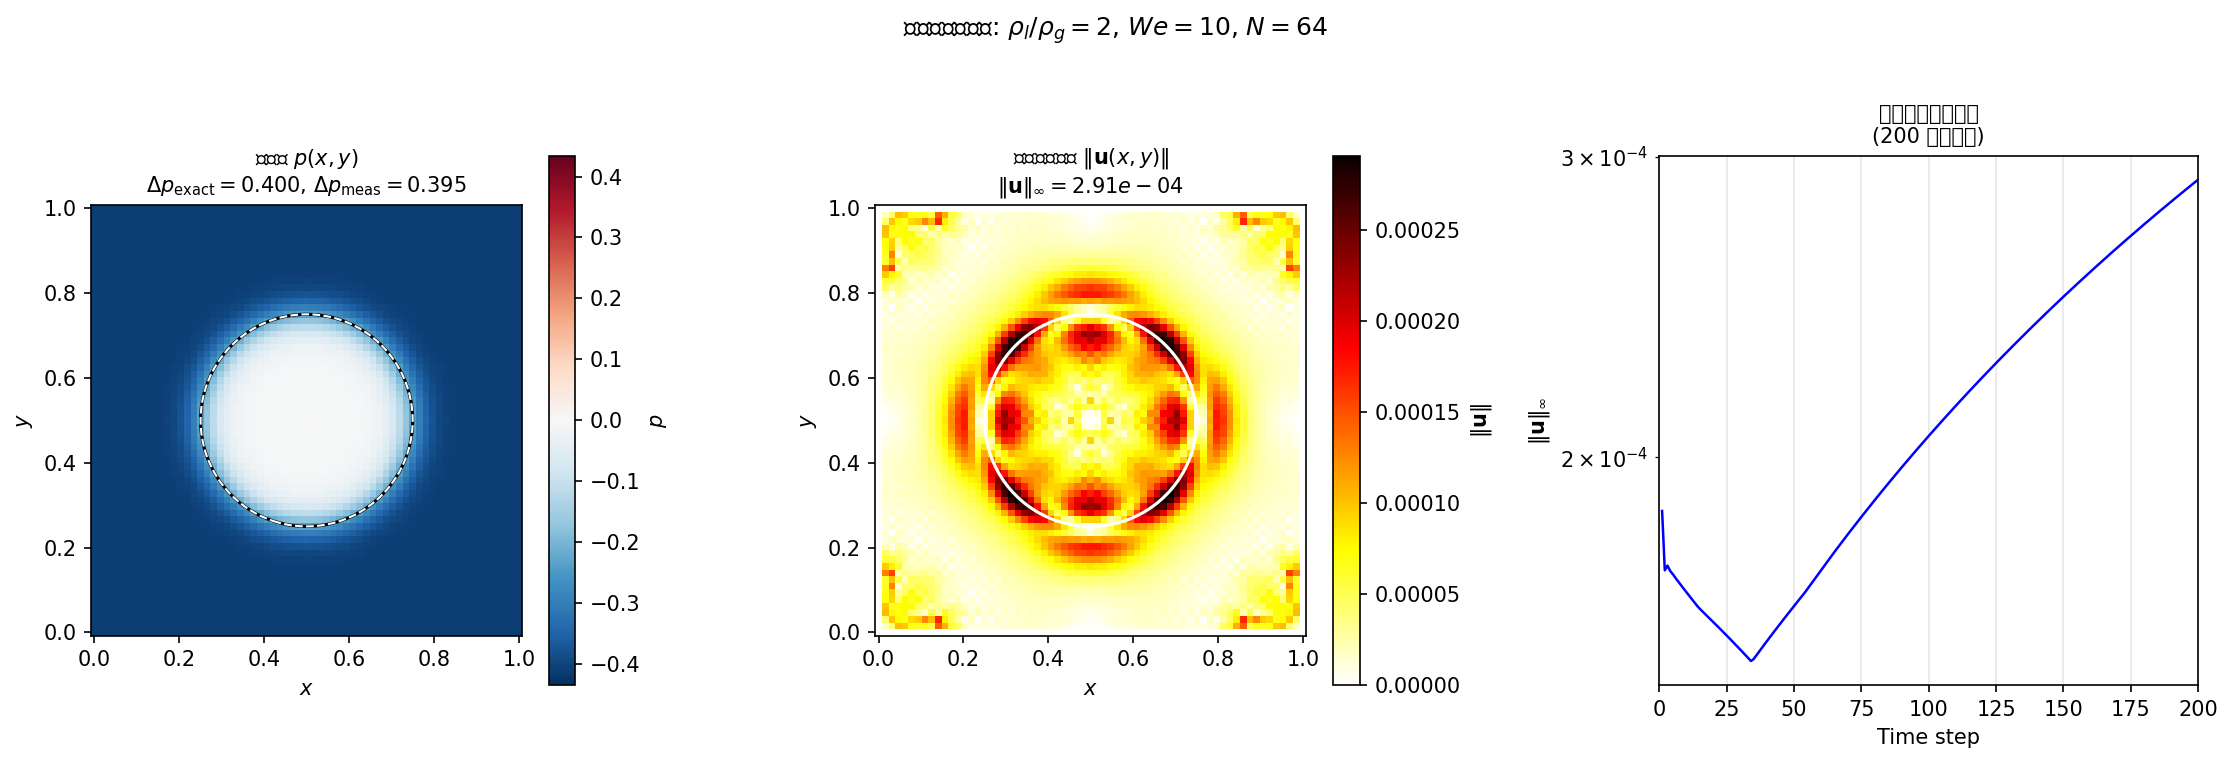
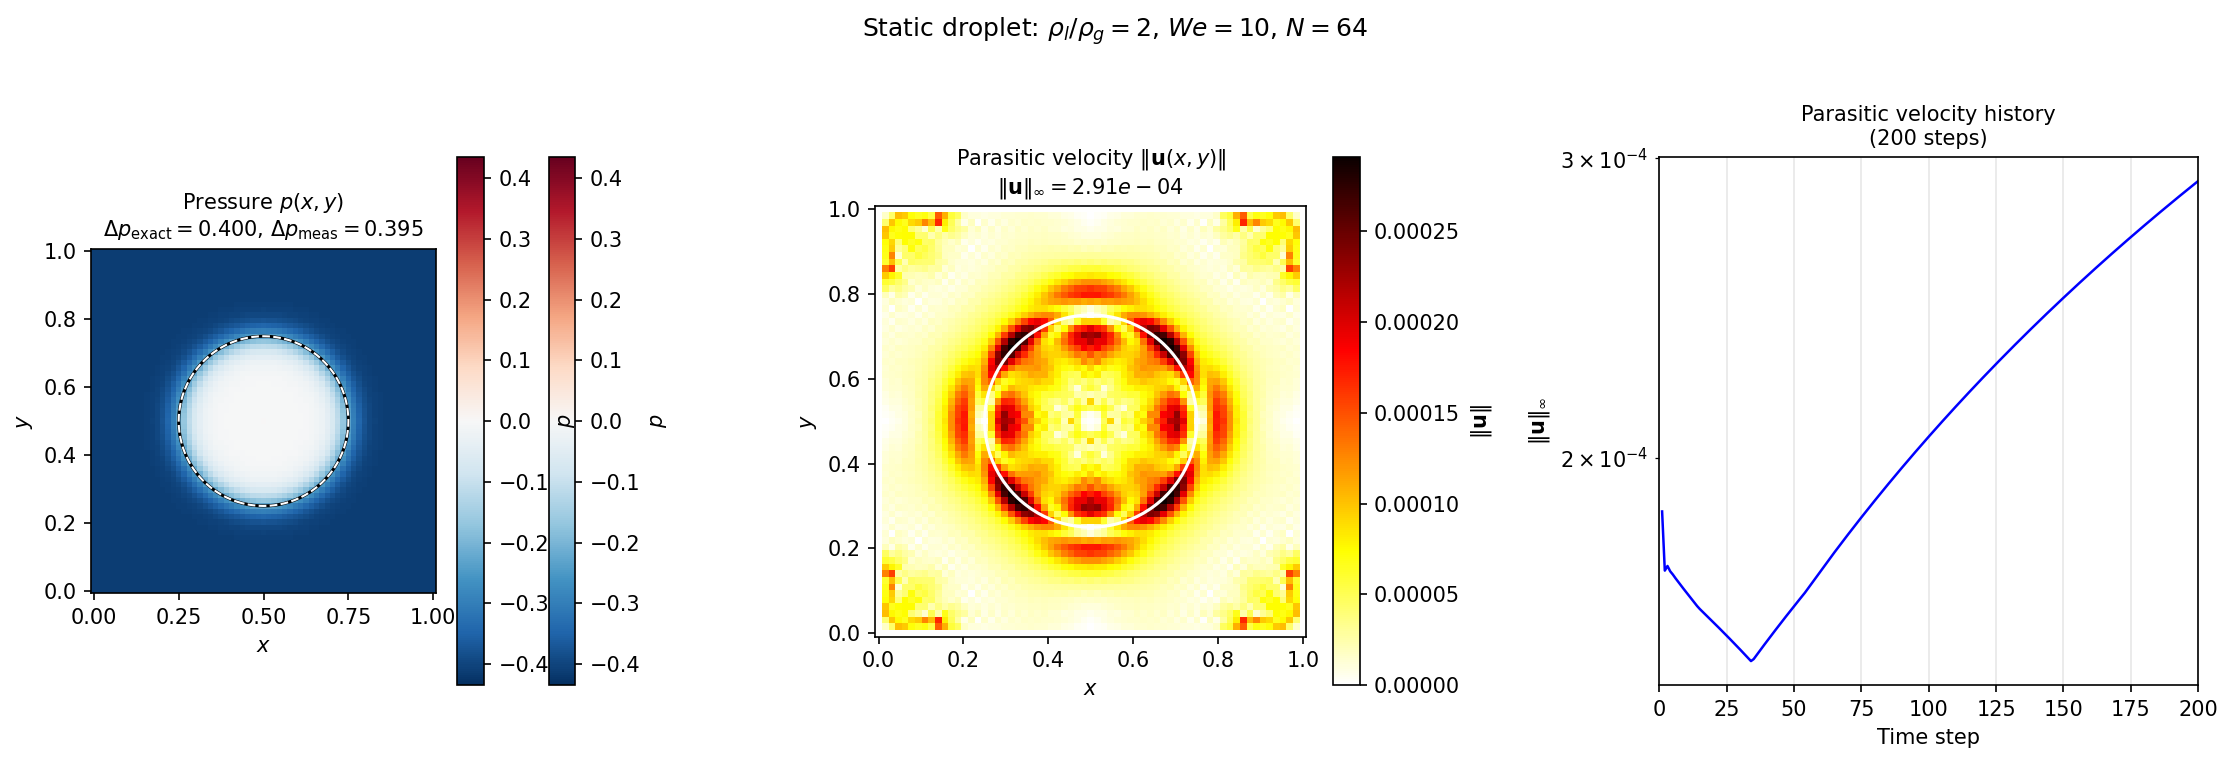
fix(viz): §12 グラフの文字化け修正・パネルサイズ均一化
- 全4スクリプトの日本語ラベルを英語に置換（matplotlibフォント非対応のため）
- 行単位共有カラーバー (ax=axes[row,:].tolist()) でパネルサイズを均一化
  - viz_ch12_density_fields: 2×4パネル, 右列カラーバーによるサイズ縮小を解消
  - viz_ch12_rt_fields: 3×4パネル, 各行に単一カラーバーを配置
  - viz_ch12_hfe_fields: 列単位共有カラーバーに変更
- 図を再生成・paper/figures/ を更新

diff --git a/experiment/ch12/viz_ch12_hfe_fields.py b/experiment/ch12/viz_ch12_hfe_fields.py
@@ -127,41 +127,46 @@ def make_figure(phi, p_off, vm_off, hist_off, p_on, vm_on, hist_on):
     x1d = np.linspace(0, 1, Ng)
     y1d = np.linspace(0, 1, Ng)
 
-    def _plot_field(ax, data, phi, cmap, label, title, vmax=None):
+    def _plot_field(ax, data, phi, cmap, title, vmax=None):
         if vmax is None:
             vmax = max(abs(data.min()), abs(data.max()), 1e-12)
         im = ax.pcolormesh(x1d, y1d, data.T, cmap=cmap,
                            vmin=-vmax if cmap == 'RdBu_r' else 0,
                            vmax=vmax, shading='auto')
         ax.contour(x1d, y1d, phi.T, levels=[0.0], colors='k', linewidths=1.5)
-        plt.colorbar(im, ax=ax, label=label, shrink=0.85)
         ax.set_title(title, fontsize=10)
         ax.set_xlabel('$x$'); ax.set_ylabel('$y$')
         ax.set_aspect('equal')
+        return im
+
+    # Shared scales across both rows for fair comparison
+    vmax_p = max(abs(p_off.min()), abs(p_off.max()), abs(p_on.min()), abs(p_on.max()))
+    vmax_u = max(vm_off.max(), vm_on.max(), 1e-10)
 
     # Row 0: HFE OFF
-    vmax_p = max(abs(p_off.min()), abs(p_off.max()), abs(p_on.min()), abs(p_on.max()))
-    _plot_field(axes[0, 0], p_off, phi, 'RdBu_r', '$p$',
-                f'HFE OFF — 圧力場\n$\\|\\mathbf{{u}}\\|_\\infty={vm_off.max():.2e}$',
-                vmax=vmax_p)
-    vmax_u = max(vm_off.max(), 1e-10)
-    _plot_field(axes[0, 1], vm_off, phi, 'hot_r', r'$\|\mathbf{u}\|$',
-                f'HFE OFF — 寄生流れ速度\npeak={vm_off.max():.2e}',
-                vmax=vmax_u)
+    im_p0 = _plot_field(axes[0, 0], p_off, phi, 'RdBu_r',
+                        f'HFE OFF — Pressure\n$\\|\\mathbf{{u}}\\|_\\infty={vm_off.max():.2e}$',
+                        vmax=vmax_p)
+    im_u0 = _plot_field(axes[0, 1], vm_off, phi, 'hot_r',
+                        f'HFE OFF — Parasitic velocity\npeak={vm_off.max():.2e}',
+                        vmax=vmax_u)
 
     # Row 1: HFE ON
-    _plot_field(axes[1, 0], p_on, phi, 'RdBu_r', '$p$',
-                f'HFE ON — 圧力場\n$\\|\\mathbf{{u}}\\|_\\infty={vm_on.max():.2e}$',
-                vmax=vmax_p)
-    vmax_u_on = max(vm_on.max(), 1e-10)
-    _plot_field(axes[1, 1], vm_on, phi, 'hot_r', r'$\|\mathbf{u}\|$',
-                f'HFE ON — 寄生流れ速度\npeak={vm_on.max():.2e}',
-                vmax=vmax_u_on)
+    im_p1 = _plot_field(axes[1, 0], p_on, phi, 'RdBu_r',
+                        f'HFE ON — Pressure\n$\\|\\mathbf{{u}}\\|_\\infty={vm_on.max():.2e}$',
+                        vmax=vmax_p)
+    im_u1 = _plot_field(axes[1, 1], vm_on, phi, 'hot_r',
+                        f'HFE ON — Parasitic velocity\npeak={vm_on.max():.2e}',
+                        vmax=vmax_u)
+
+    # Shared colorbars — one per column, placed to the right of all rows
+    fig.colorbar(im_p0, ax=axes[:, 0].tolist(), label='$p$', shrink=0.6)
+    fig.colorbar(im_u0, ax=axes[:, 1].tolist(), label=r'$\|\mathbf{u}\|$', shrink=0.6)
 
     ratio = vm_on.max() / max(vm_off.max(), 1e-30)
     plt.suptitle(
-        f'HFE ON vs OFF: $\\rho_l/\\rho_g=2$, $N=64$, {N_STEPS} ステップ\n'
-        f'寄生流れ増大比: {ratio:.1e}×',
+        f'HFE ON vs OFF: $\\rho_l/\\rho_g=2$, $N=64$, {N_STEPS} steps\n'
+        f'Parasitic velocity ratio ON/OFF: {ratio:.1e}x',
         fontsize=12, y=1.01
     )
     plt.tight_layout()

diff --git a/experiment/ch12/viz_ch12_rt_fields.py b/experiment/ch12/viz_ch12_rt_fields.py
@@ -199,48 +199,45 @@ def make_figure(snapshots):
 
         # Density
         ax = axes[0, i]
-        im = ax.pcolormesh(x1d, y1d, rho_s.T, cmap='Blues',
-                           vmin=vmin_rho, vmax=vmax_rho, shading='auto')
+        im_rho = ax.pcolormesh(x1d, y1d, rho_s.T, cmap='Blues',
+                               vmin=vmin_rho, vmax=vmax_rho, shading='auto')
         ax.contour(x1d, y1d, psi_s.T, levels=[0.5], colors='r', linewidths=1.5)
-        if i == 3:
-            plt.colorbar(im, ax=ax, label=r'$\rho$', shrink=0.8)
         ax.set_title(f'$t={t_snap:.1f}$', fontsize=11)
         ax.set_xlabel('$x$')
-        ax.set_ylabel('$y$' if i == 0 else '')
         ax.set_xlim(0, 1); ax.set_ylim(0.5, 3.5)
         ax.set_aspect('equal')
 
         # Pressure
         ax = axes[1, i]
-        im2 = ax.pcolormesh(x1d, y1d, p_s.T, cmap='RdBu_r',
-                            vmin=-vmax_p, vmax=vmax_p, shading='auto')
+        im_p = ax.pcolormesh(x1d, y1d, p_s.T, cmap='RdBu_r',
+                             vmin=-vmax_p, vmax=vmax_p, shading='auto')
         ax.contour(x1d, y1d, psi_s.T, levels=[0.5], colors='k', linewidths=1.2)
-        if i == 3:
-            plt.colorbar(im2, ax=ax, label='$p$', shrink=0.8)
         ax.set_xlabel('$x$')
-        ax.set_ylabel('$p(x,y)$' if i == 0 else '')
         ax.set_xlim(0, 1); ax.set_ylim(0.5, 3.5)
         ax.set_aspect('equal')
 
         # Velocity magnitude
         ax = axes[2, i]
-        im3 = ax.pcolormesh(x1d, y1d, vm_s.T, cmap='hot_r',
-                            vmin=0, vmax=vmax_vm, shading='auto')
+        im_vm = ax.pcolormesh(x1d, y1d, vm_s.T, cmap='hot_r',
+                              vmin=0, vmax=vmax_vm, shading='auto')
         ax.contour(x1d, y1d, psi_s.T, levels=[0.5], colors='w', linewidths=1.2)
-        if i == 3:
-            plt.colorbar(im3, ax=ax, label=r'$\|\mathbf{u}\|$', shrink=0.8)
         ax.set_xlabel('$x$')
-        ax.set_ylabel(r'$\|\mathbf{u}(x,y)\|$' if i == 0 else '')
         ax.set_xlim(0, 1); ax.set_ylim(0.5, 3.5)
         ax.set_aspect('equal')
 
-    axes[0, 0].set_ylabel('密度場 $\\rho(x,y)$', fontsize=11)
-    axes[1, 0].set_ylabel('圧力場 $p(x,y)$', fontsize=11)
-    axes[2, 0].set_ylabel(r'速度 $\|\mathbf{u}(x,y)\|$', fontsize=11)
+    # Row labels
+    axes[0, 0].set_ylabel(r'Density $\rho(x,y)$', fontsize=11)
+    axes[1, 0].set_ylabel(r'Pressure $p(x,y)$', fontsize=11)
+    axes[2, 0].set_ylabel(r'Velocity $\|\mathbf{u}(x,y)\|$', fontsize=11)
+
+    # Shared colorbars — one per row → equal panel sizes
+    fig.colorbar(im_rho, ax=axes[0, :].tolist(), label=r'$\rho$', shrink=0.7)
+    fig.colorbar(im_p,   ax=axes[1, :].tolist(), label='$p$',      shrink=0.7)
+    fig.colorbar(im_vm,  ax=axes[2, :].tolist(), label=r'$\|\mathbf{u}\|$', shrink=0.7)
 
     plt.suptitle(
-        r'RT不安定性: $64\times256$, $At=0.5$, $\sigma=0$'
-        '\n赤線 = 界面 ($\\psi=0.5$)',
+        r'RT instability: $64\times256$, $At=0.5$, $\sigma=0$'
+        '\n(red line = interface $\\psi=0.5$)',
         fontsize=13
     )
     plt.tight_layout()

diff --git a/experiment/ch12/viz_ch12_density_fields.py b/experiment/ch12/viz_ch12_density_fields.py
@@ -121,6 +121,10 @@ def make_figure(results):
     all_p = np.concatenate([r['p'].ravel() for r in results])
     vmax_p = float(np.percentile(np.abs(all_p), 99)) * 1.05
 
+    vmax_u = float(max(r['vel_mag'].max() for r in results))
+    im_p_last = None
+    im_u_last = None
+
     for i, r in enumerate(results):
         rho_l = r['rho_l']
         phi = r['phi']
@@ -129,36 +133,36 @@ def make_figure(results):
 
         # Top row: pressure fields
         ax = axes[0, i]
-        im = ax.pcolormesh(x1d, y1d, p.T, cmap='RdBu_r',
-                           vmin=-vmax_p, vmax=vmax_p, shading='auto')
+        im_p = ax.pcolormesh(x1d, y1d, p.T, cmap='RdBu_r',
+                             vmin=-vmax_p, vmax=vmax_p, shading='auto')
         ax.contour(x1d, y1d, phi.T, levels=[0.0], colors='k', linewidths=1.5)
-        if i == len(results) - 1:
-            plt.colorbar(im, ax=ax, label='$p$', shrink=0.9)
         ax.set_title(fr'$\rho_l/\rho_g={int(rho_l)}$' + '\n'
-                     fr'$\Delta p_{{meas}}={r["dp_meas"]:.3f}$', fontsize=10)
-        ax.set_xlabel('$x$'); ax.set_ylabel('$y$' if i == 0 else '')
+                     fr'$\Delta p_\mathrm{{meas}}={r["dp_meas"]:.3f}$', fontsize=10)
+        ax.set_xlabel('$x$')
         ax.set_aspect('equal')
         if i > 0:
             ax.set_yticklabels([])
+        im_p_last = im_p
 
         # Bottom row: velocity magnitude
         ax = axes[1, i]
-        vmax_u = float(max(r['vel_mag'].max() for r in results))
-        im2 = ax.pcolormesh(x1d, y1d, vm.T, cmap='hot_r',
-                            vmin=0, vmax=vmax_u, shading='auto')
+        im_u = ax.pcolormesh(x1d, y1d, vm.T, cmap='hot_r',
+                             vmin=0, vmax=vmax_u, shading='auto')
         ax.contour(x1d, y1d, phi.T, levels=[0.0], colors='w', linewidths=1.5)
-        if i == len(results) - 1:
-            plt.colorbar(im2, ax=ax, label=r'$\|\mathbf{u}\|$', shrink=0.9)
         ax.set_title(fr'$\|\mathbf{{u}}\|_\infty={vm.max():.2e}$', fontsize=10)
-        ax.set_xlabel('$x$'); ax.set_ylabel(r'$\|\mathbf{u}\|$' if i == 0 else '')
+        ax.set_xlabel('$x$')
         ax.set_aspect('equal')
         if i > 0:
             ax.set_yticklabels([])
+        im_u_last = im_u
 
-    axes[0, 0].set_ylabel('圧力場 $p(x,y)$', fontsize=11)
-    axes[1, 0].set_ylabel(r'寄生流れ $\|\mathbf{u}(x,y)\|$', fontsize=11)
+    # Shared colorbars — one per row, placed right of all columns → equal panel sizes
+    axes[0, 0].set_ylabel('Pressure $p(x,y)$', fontsize=11)
+    axes[1, 0].set_ylabel(r'Parasitic velocity $\|\mathbf{u}(x,y)\|$', fontsize=11)
+    fig.colorbar(im_p_last, ax=axes[0, :].tolist(), label='$p$', shrink=0.8)
+    fig.colorbar(im_u_last, ax=axes[1, :].tolist(), label=r'$\|\mathbf{u}\|$', shrink=0.8)
 
-    plt.suptitle(r'密度比スイープ: $N=64$, $We=10$, 200ステップ — 全ケース安定',
+    plt.suptitle(r'Density ratio sweep: $N=64$, $We=10$, 200 steps — all stable',
                  fontsize=12)
     plt.tight_layout()
 

diff --git a/experiment/ch12/viz_ch12_droplet_fields.py b/experiment/ch12/viz_ch12_droplet_fields.py
@@ -119,21 +119,19 @@ def make_figure(X, Y, phi, psi, p, u, v, vel_mag, u_max_hist):
     ax.contour(x1d, y1d, psi.T, levels=[0.5], colors='w', linewidths=1.0,
                linestyles='--')
     plt.colorbar(im, ax=ax, label='$p$')
-    ax.set_title(r'圧力場 $p(x,y)$' + '\n' + r'($N=64$, step=200)', fontsize=11)
-    ax.set_xlabel('$x$'); ax.set_ylabel('$y$')
-    ax.set_aspect('equal')
-
-    # Exact Δp = σ/(R·We) = 1/(0.25·10) = 0.4
     dp_exact = SIGMA / (R * WE)
     inside = phi > 3.0 / N
     outside = phi < -3.0 / N
     dp_meas = float(np.mean(p[inside]) - np.mean(p[outside]))
     ax.set_title(
-        r'圧力場 $p(x,y)$' + '\n'
+        r'Pressure $p(x,y)$' + '\n'
         fr'$\Delta p_\mathrm{{exact}}={dp_exact:.3f}$,'
         fr' $\Delta p_\mathrm{{meas}}={dp_meas:.3f}$',
         fontsize=10
     )
+    ax.set_xlabel('$x$'); ax.set_ylabel('$y$')
+    ax.set_aspect('equal')
+    plt.colorbar(im, ax=ax, label='$p$')
 
     # ── Panel B: Velocity magnitude (parasitic currents) ──
     ax = axes[1]
@@ -141,11 +139,11 @@ def make_figure(X, Y, phi, psi, p, u, v, vel_mag, u_max_hist):
     im2 = ax.pcolormesh(x1d, y1d, vel_mag.T, cmap='hot_r', vmin=0, vmax=vmax_u,
                         shading='auto')
     ax.contour(x1d, y1d, phi.T, levels=[0.0], colors='w', linewidths=1.5)
-    plt.colorbar(im2, ax=ax, label=r'$\|\mathbf{u}\|$')
-    ax.set_title(r'寄生流れ速度 $\|\mathbf{u}(x,y)\|$' + '\n'
+    ax.set_title(r'Parasitic velocity $\|\mathbf{u}(x,y)\|$' + '\n'
                  fr'$\|\mathbf{{u}}\|_\infty={vmax_u:.2e}$', fontsize=10)
     ax.set_xlabel('$x$'); ax.set_ylabel('$y$')
     ax.set_aspect('equal')
+    plt.colorbar(im2, ax=ax, label=r'$\|\mathbf{u}\|$')
 
     # ── Panel C: Velocity time history ──
     ax = axes[2]
@@ -153,11 +151,11 @@ def make_figure(X, Y, phi, psi, p, u, v, vel_mag, u_max_hist):
     ax.semilogy(steps, u_max_hist, 'b-', linewidth=1.2)
     ax.set_xlabel('Time step')
     ax.set_ylabel(r'$\|\mathbf{u}\|_\infty$')
-    ax.set_title(r'寄生流れ時間発展' + '\n' + '(200 ステップ)', fontsize=10)
+    ax.set_title('Parasitic velocity history\n(200 steps)', fontsize=10)
     ax.grid(True, alpha=0.3)
     ax.set_xlim(0, N_STEPS)
 
-    plt.suptitle(r'静止液滴テスト: $\rho_l/\rho_g=2$, $We=10$, $N=64$',
+    plt.suptitle(r'Static droplet: $\rho_l/\rho_g=2$, $We=10$, $N=64$',
                  fontsize=12, y=1.01)
     plt.tight_layout()
 
